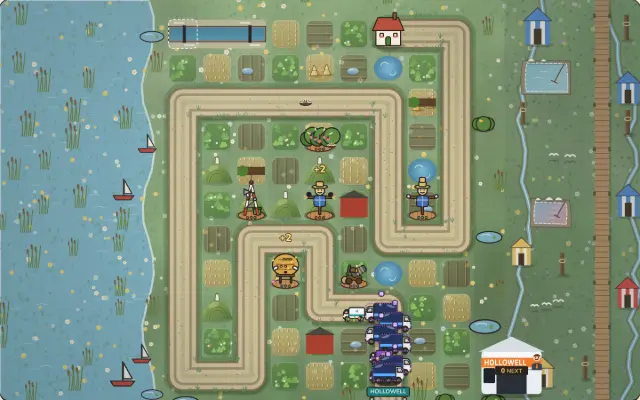
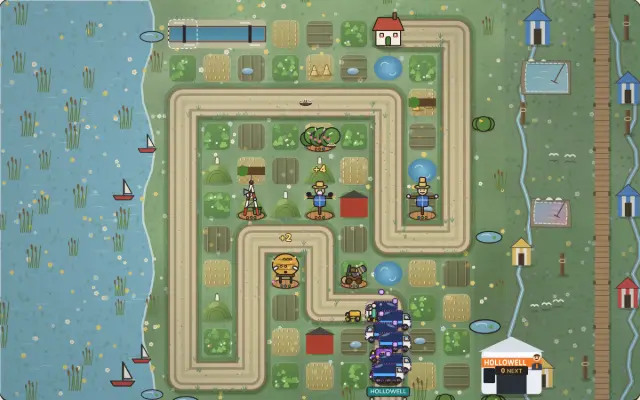
Hedgerow item 266: queued vehicles enlarged only on a straight lane running across (no overhang in north-south lanes or at bends)
Claude-Session: https://claude.ai/code/session_01SimvMN1RHBGCWN7Eo7MzhN

Changed region(s): [[0.5312, 0.72, 0.6562, 0.96]]

diff --git a/games/hedgerow/src/render.ts b/games/hedgerow/src/render.ts
@@ -881,19 +881,29 @@ export class Renderer {
         const path = ln.lane ? level.path2! : level.path;
         // The first to pull out stands furthest down the lane; the rest wait bumper to bumper behind it, towards
         // the gate (spaced by their sprites' lengths, so lorries don't overlap).
+        // Plan item 266: the 1.4x size only where the lane runs across, straight, for the sprite's length: the sprites
+        // are drawn side-on, so on a lane running up or down, or at a bend, a bigger one overhung the plots.
+        const across = (dd: number) => [dd - 0.4, dd, dd + 0.4].every((x) => {
+          const hh = headingAt(path, Math.max(0, x));
+          return Math.abs(hh.dx) > Math.abs(hh.dy);
+        });
         const dists: number[] = [];
+        const qs: number[] = [];
         let d = 0.15;
         for (let i = ln.leads.length - 1; i >= 0; i--) {
           dists[i] = d;
-          if (i > 0) d += (0.42 * (enemyScale(ln.leads[i]!) + enemyScale(ln.leads[i - 1]!)) + 0.06) * QUEUE_SCALE;
+          qs[i] = across(d) ? QUEUE_SCALE : 1;
+          // (the next one's size isn't known until it's placed: room for it at the bigger size)
+          if (i > 0) d += 0.42 * (enemyScale(ln.leads[i]!) * qs[i]! + enemyScale(ln.leads[i - 1]!) * QUEUE_SCALE) + 0.06 * QUEUE_SCALE;
         }
         ln.leads.forEach((kind, i) => {
           const d = dists[i]!;
           const p = enemyPoint(level, { dist: d, ...(ln.lane ? { lane: ln.lane } : {}) });
           const hd = headingAt(path, d);
           const gy = p.y + 0.2;
-          const sc = s * QUEUE_SCALE * enemyScale(kind) * 0.55;
-          const box = { x: X(p.x) - sc / 2, y: Y(gy) - sc, w: sc, h: sc };
+          const q = qs[i]!;
+          const sc = s * q * enemyScale(kind) * 0.55;
+          const box = { x: X(p.x) - sc / 2, y: Y(gy) - sc, w: sc, h: sc, big: q > 1 };
           const at = shown.leads.push(box);
           // Plan item 256: the first to pull out carries its name, on its far side from the one behind it, clear of
           // the rest of the queue.
@@ -914,7 +924,7 @@ export class Renderer {
             draw: () => {
               ctx.save();
               ctx.globalAlpha = this.queueAge;
-              drawEnemy(ctx, { kind, facing: hd.dx < 0 ? -1 : 1, hit: 9, ghost: false, phase: i * 0.37, still: true }, X(p.x), Y(gy), s * QUEUE_SCALE, t);
+              drawEnemy(ctx, { kind, facing: hd.dx < 0 ? -1 : 1, hit: 9, ghost: false, phase: i * 0.37, still: true }, X(p.x), Y(gy), s * q, t);
               ctx.restore();
             },
           });

diff --git a/e2e-site/hedgerow-gatequeue.spec.ts b/e2e-site/hedgerow-gatequeue.spec.ts
@@ -3,7 +3,7 @@ import { expect, test, type Page } from '@playwright/test'
 // Plan item 72: between rounds the next round queues at the Hollowell gate. On levels 1, 12 and 40 the field draws
 // the round's leads and a count plate inside the canvas (the plate never on a lead), Go clears the queue, and
 // Cath's notebook is never empty.
-type Box = { x: number; y: number; w: number; h: number }
+type Box = { x: number; y: number; w: number; h: number; big?: boolean }
 type Hg = { game(): { phase: string; wave: number }; gateQueue(): { leads: Box[]; plates: Box[]; names: Box[] } | null; sendWave(g: unknown): unknown }
 
 async function open(page: Page, level: number): Promise<void> {
@@ -38,9 +38,10 @@ for (const level of [1, 12, 34, 40]) {
     for (const p of q.plates) expect(p.h, JSON.stringify(p)).toBeGreaterThanOrEqual(18)
     for (const p of q.plates) for (const l of q.leads) expect(overlaps(p, l), `plate ${JSON.stringify(p)} on lead ${JSON.stringify(l)}`).toBe(false)
     // Plan item 256: queued vehicles are drawn 1.4x (40 px or more at D, 28 on a phone), and the first to pull out
-    // carries a name plate, inside the field and on no other vehicle or plate.
-    const min = (page.viewportSize()?.width ?? 0) >= 900 ? 40 : 28
-    for (const l of q.leads) expect(l.w, JSON.stringify(l)).toBeGreaterThanOrEqual(min)
+    // carries a name plate, inside the field and on no other vehicle or plate. Plan item 266: only on a lane running
+    // across (side-on sprites overhung the plots on one running up or down); there item 105's floor, 28 / 20.
+    const wide = (page.viewportSize()?.width ?? 0) >= 900
+    for (const l of q.leads) expect(l.w, JSON.stringify(l)).toBeGreaterThanOrEqual(l.big ? (wide ? 40 : 28) : wide ? 28 : 20)
     expect(q.names.length).toBeGreaterThan(0)
     for (const n of q.names) {
       expect(n.x).toBeGreaterThanOrEqual(0)

diff --git a/docs/plan/two-week-plan.md b/docs/plan/two-week-plan.md
@@ -2694,7 +2694,7 @@ The items come from fresh-eyes audits on 2026-11-01 and 2026-11-02 (items 25-32:
 - **Accept:** awning, Cath and counter in one group within 360 px at 390x844, no floating strip; Cath 190 px or more tall; both buttons above the fold; games-hero-cath, -stall, -cards pass; shots P and D (D unchanged); key art unchanged.
 - **Size:** 1
 
-## 266. [ ] The bugs from the 2026-11-07 18:00 critique, fixed as one batch *(lane B, in progress)*
+## 266. [ ] The bugs from the 2026-11-07 18:00 critique, fixed as one batch *(lane B, in progress)* *(slice 1, 2026-11-07 19:40 lane B: **Hedgerow** queued vehicles take item 256's 1.4x only where the lane runs across, straight, for the sprite's length (side-on sprites overhung the plots on a lane running up or down, and at bends): D l34's Box Lorries sit in their north-south lane (44 px, were 62 over the plot column), the Same-Day vans no longer leave the lane at the bend nor overlap (spacing leaves room for the next at the bigger size); `gateQueue` leads carry `big`, and the gatequeue spec holds enlarged ones to 40/28 px and the rest to item 105's 28/20; gatequeue, vehicles pass (threat l12 D: its known bubble failure); key art re-shot. Shots scratchpad q256-q266b D/P)*
 - **Build:** (check each first; shots `e2e/screenshots/plan1107f`)
   - **NIGHT SHIFT:** D and P pick: the Ghost's slung rifle rises through the umbrella canopy (790-845 x 0-260; P 265-300 x 0-250); D pick canopy cut by the frame's top (470-960 x 0-60). P pick: the hold bar 2 px past the card's left edge and 12 px short of its right (9-367 x 790-833); the paperclip floats off the card (352-364 x 627-652); labels SNIPER RIFLE/DAMAGE/RATE/MAGAZINE (186-352 x 690-750) and D 'STARTS WITH', 'CASE FILE', 'DAMAGE' possibly under 12 px. D title: List cards 3-4 blurbs run onto the card's bottom edge (285-490 x 795-812).
   - **Hedgerow:** D l34: the Box Lorry queue faces east in a north-south lane, noses over the plot column, the lead over the farmer (220-318 x 105-470); Same-Day vans 3-4 leave the lane at the bend, the 4th on the willow and its tag on the plot edge (375-605 x 785-890). P menu: Act 4 header washed out and half under the tab bar (15-375 x 755-775; may be the fog teaser). P 3D l21: the depot cropped by the top bar (150-245 x 55-155).
